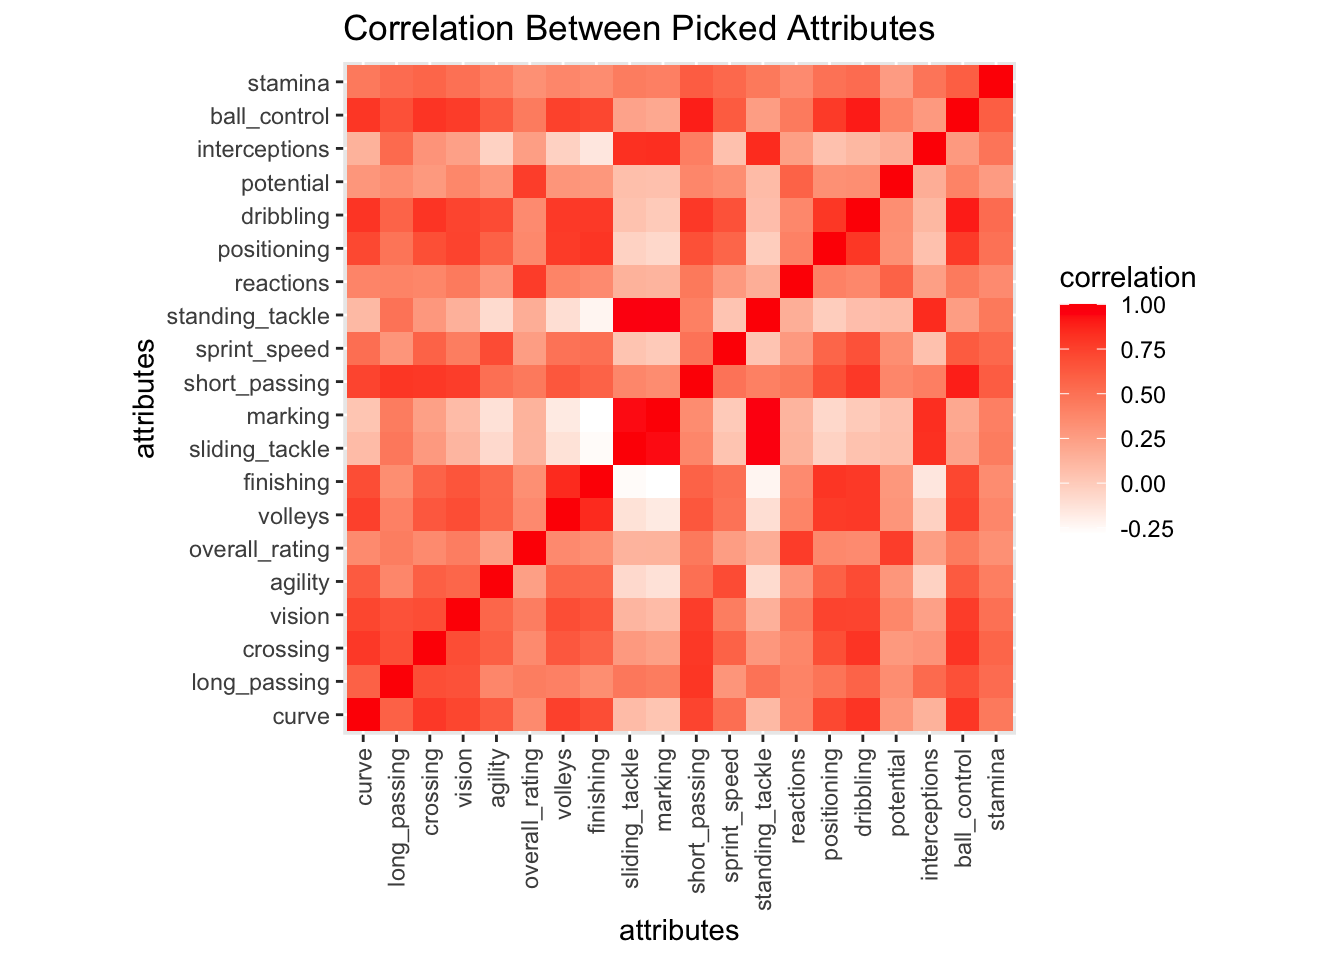
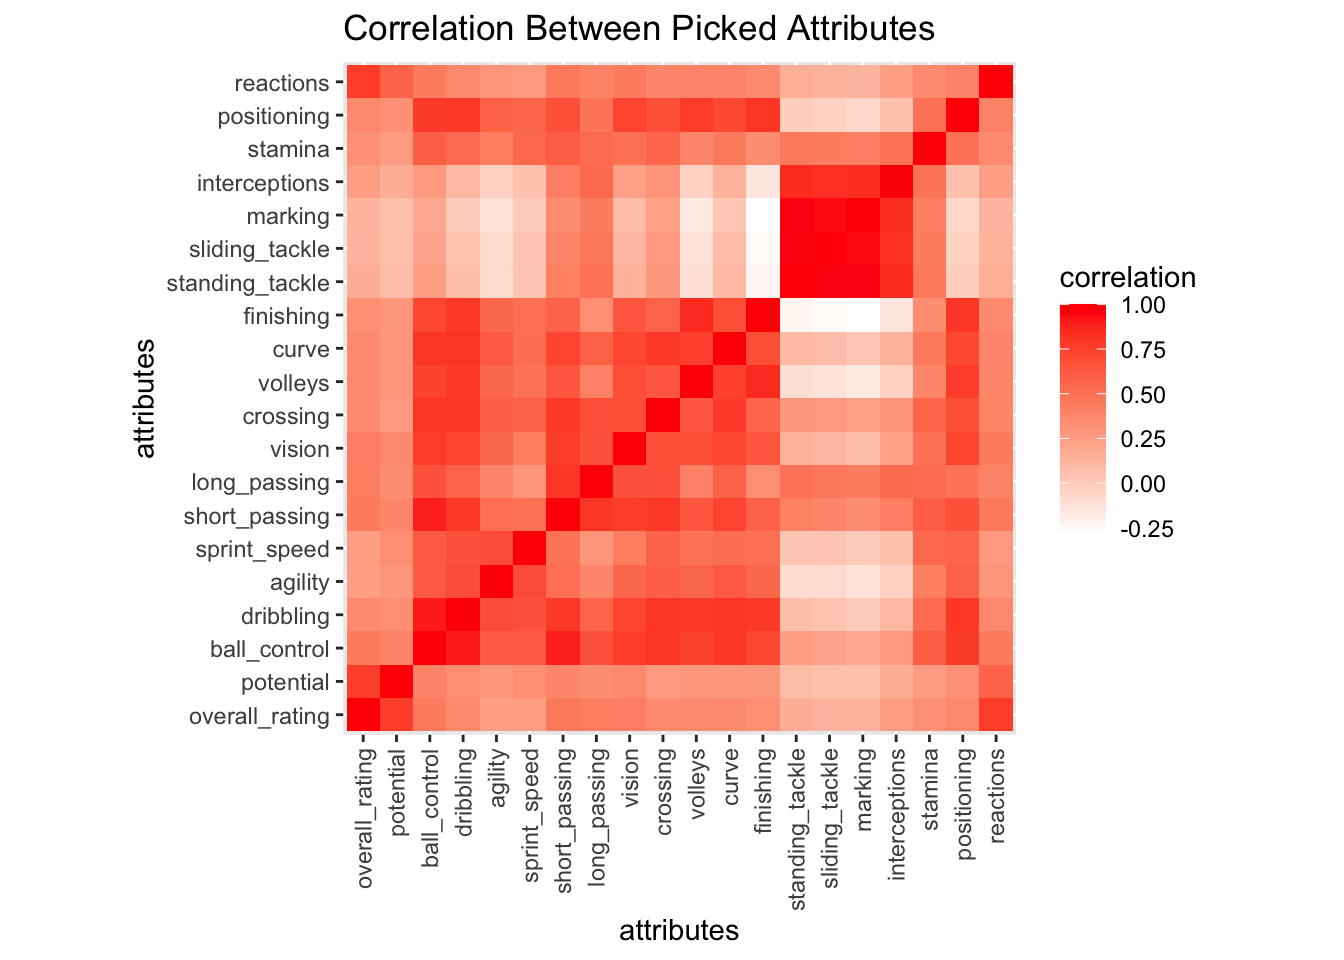
render heatmap

Changed region(s): [[0.125, 0.0625, 0.7812, 0.9375]]

diff --git a/docs/results.html b/docs/results.html
@@ -102,7 +102,7 @@
 </ul></li>
 <li class="chapter" data-level="5.2" data-path="results.html"><a href="results.html#team-biplot"><i class="fa fa-check"></i><b>5.2</b> team biplot</a></li>
 <li class="chapter" data-level="5.3" data-path="results.html"><a href="results.html#combine"><i class="fa fa-check"></i><b>5.3</b> Combine</a></li>
-<li class="chapter" data-level="5.4" data-path="results.html"><a href="results.html#five-factor-model"><i class="fa fa-check"></i><b>5.4</b> Five-Factor Model</a></li>
+<li class="chapter" data-level="5.4" data-path="results.html"><a href="results.html#a-five-factor-team-evaluation-system"><i class="fa fa-check"></i><b>5.4</b> A Five-Factor Team Evaluation System</a></li>
 </ul></li>
 <li class="chapter" data-level="6" data-path="interactive-component.html"><a href="interactive-component.html"><i class="fa fa-check"></i><b>6</b> Interactive component</a></li>
 <li class="chapter" data-level="7" data-path="conclusion.html"><a href="conclusion.html"><i class="fa fa-check"></i><b>7</b> Conclusion</a>
@@ -196,12 +196,28 @@ The clustering shows it separates guard and other players.</p>
 <div id="combine" class="section level2" number="5.3">
 <h2><span class="header-section-number">5.3</span> Combine</h2>
 </div>
-<div id="five-factor-model" class="section level2" number="5.4">
-<h2><span class="header-section-number">5.4</span> Five-Factor Model</h2>
-<p>Long Passing, Curve, Short Passing, Crossing, Overall Rating, Ball Control, Potential, Reactions, Vision, Finishing, Volleys, Positioning, Marking, Sliding Tackle, Standing Tackle, Interceptions, Dribbling, Agility, Sprint Speed, Stamina</p>
-<p><img src="finalproj_files/figure-html/unnamed-chunk-41-1.png" width="672" />
-We applied the Five-Factor Evaluation System and</p>
-<p><img src="finalproj_files/figure-html/unnamed-chunk-43-1.png" width="960" /></p>
+<div id="a-five-factor-team-evaluation-system" class="section level2" number="5.4">
+<h2><span class="header-section-number">5.4</span> A Five-Factor Team Evaluation System</h2>
+<p>Even though each team has some team attributes associated, it is crucial to include all players’ attributes when evaluating a team. Therefore, in this section, we attempt to aggregate player attributes into a team evaluation.</p>
+<p>We encode categorical attributes into one-hot vector and then take the averages for each of attributes across the team (due to the nature that the top players in a team is much more productive than others, we will use the top 6 players in building this system). Then, we run GBDT model for all attributes to find the relationship between attributes and the outcome (whether the team wins the match or the difference between the number of goals scored), and use <a href="https://www.kaggle.com/dansbecker/shap-values">SHAP value</a> to get the the ranking of feature importance. SHAP values interpret the impact of having a certain value for a given feature in comparison to the prediction we’d make if that feature took some baseline value. See this <a href="https://github.com/serendipitylee/SoccerGambling">Github repo</a> for more information.</p>
+<p>Following the introduced procedure, we then select the top 20 importance attributes for further analysis, which are <code>overall_rating</code>, <code>potential</code>, <code>ball_control</code>, <code>dribbling</code>, <code>agility</code>, <code>sprint_speed</code>, <code>short_passing</code>, <code>long_passing</code>, <code>vision</code>, <code>crossing</code>, <code>volleys</code>, <code>curve</code>, <code>finishing</code>, <code>standing_tackle</code>, <code>sliding_tackle</code>, <code>marking</code>, <code>interceptions</code>, <code>stamina</code>, <code>positioning</code> and <code>reactions</code>.</p>
+<p>To build a simpler and more explainable team evaluation system, we want to reduce our 20 picked attributes to only a few variables. We can first examine the correlation between each pair of attributes to get a sense of how similar between a pair of attributes.</p>
+<p><img src="finalproj_files/figure-html/unnamed-chunk-41-1.png" width="672" /></p>
+<p>In a correlation heatmap, each block represents the correlation of two attributes. The darker the color, the stronger the correlation. From the above plot, we can observe some big block with similar degree of the color which reveals that those attributes share similar information and we can further more reduce them to a lower dimension. To achieve that, we first apply clustering algorithm. See this <a href="https://github.com/serendipitylee/SoccerGambling">Github repo</a> for more information.</p>
+<p><img src="finalproj_files/figure-html/unnamed-chunk-43-1.png" width="960" />
+In have a better view of the cluster, we reorder the same heatmap and highlight each cluster. The final 5 clusters can be explained as following:</p>
+<p><strong>Passing</strong>: <code>long_passing</code>, <code>curve</code>, <code>short_passing</code>, <code>crossing</code>. Those attributes are all about passing.</p>
+<p><strong>Overall</strong>: <code>overall_rating</code>, <code>ball_control</code>, <code>potential</code>, <code>reactions</code>. Overall rating and potential are types of generalization, and reactions and ball controlling are important to every situation.</p>
+<p><strong>Shot</strong>: <code>vision</code>, <code>finishing</code>, <code>volleys</code>, <code>positioning</code>. It is apparent that finishing is about shots and volleys is a way to shoot. Why vision and positioning are important in getting goals? Although according to the schema visions are highly-correlated with long-passing, good vision and positioning can help with achieving goals. Let’s consider about the goals after the corner kick as an example. With brilliant vision and positioning, there is higher possibility in getting goals.</p>
+<p><strong>Tackle</strong>: <code>marking</code>, <code>sliding_tackle</code>, <code>standing_tackle</code>, <code>interceptions</code>. These attributes are about dispossess an opponent of the ball.</p>
+<p><strong>Physical</strong>: <code>dribbling</code>, <code>agility</code>, <code>sprint_speed</code>, <code>stamina</code>. Agility, sprint speed and stamina are about physical quality. And dribbling is here because perfect physical quality can lead to better dribbling ability.</p>
+<p>We can then apply dimension reduction technique to each cluster and reduce them to a 5 index evaluation system. And each index is a combination of corresponding attributes. See this <a href="https://github.com/serendipitylee/SoccerGambling">Github repo</a> for more information. The result is shown below:</p>
+<p>Passing = 0.95 * 0.95 * long passing + 2.02 * curve + 5.50 * short passing + 1.06 * crossing</p>
+<p>Overall = 3.54 * overall rating + 2.37 * ball control + 1.27 * potential + 1.09 * reactions</p>
+<p>Shot = 3.89 * vision + 1.01 * finishing + 1.83 * volleys + 2.93 * positioning</p>
+<p>Tackle = -0.70 * marking + 4.52 * sliding tackle + 1.34 * standing tackle + 5.57 * interceptions</p>
+<p>Physical = 6.50 * dribbling + 1.11 * agility + 0.34 * sprint speed + 2.19 * stamina</p>
+<p>Now, we can input the averages of the top 6 players in a team and learn their playing styple in the context of those 5 index, and also we can easily compare the styles and ability between teams. Playing around with the interactive plot in the next chapter to understand the system better.</p>
 
 </div>
 </div>

diff --git a/docs/404.html b/docs/404.html
@@ -102,7 +102,7 @@
 </ul></li>
 <li class="chapter" data-level="5.2" data-path="results.html"><a href="results.html#team-biplot"><i class="fa fa-check"></i><b>5.2</b> team biplot</a></li>
 <li class="chapter" data-level="5.3" data-path="results.html"><a href="results.html#combine"><i class="fa fa-check"></i><b>5.3</b> Combine</a></li>
-<li class="chapter" data-level="5.4" data-path="results.html"><a href="results.html#five-factor-model"><i class="fa fa-check"></i><b>5.4</b> Five-Factor Model</a></li>
+<li class="chapter" data-level="5.4" data-path="results.html"><a href="results.html#a-five-factor-team-evaluation-system"><i class="fa fa-check"></i><b>5.4</b> A Five-Factor Team Evaluation System</a></li>
 </ul></li>
 <li class="chapter" data-level="6" data-path="interactive-component.html"><a href="interactive-component.html"><i class="fa fa-check"></i><b>6</b> Interactive component</a></li>
 <li class="chapter" data-level="7" data-path="conclusion.html"><a href="conclusion.html"><i class="fa fa-check"></i><b>7</b> Conclusion</a>

diff --git a/docs/conclusion.html b/docs/conclusion.html
@@ -102,7 +102,7 @@
 </ul></li>
 <li class="chapter" data-level="5.2" data-path="results.html"><a href="results.html#team-biplot"><i class="fa fa-check"></i><b>5.2</b> team biplot</a></li>
 <li class="chapter" data-level="5.3" data-path="results.html"><a href="results.html#combine"><i class="fa fa-check"></i><b>5.3</b> Combine</a></li>
-<li class="chapter" data-level="5.4" data-path="results.html"><a href="results.html#five-factor-model"><i class="fa fa-check"></i><b>5.4</b> Five-Factor Model</a></li>
+<li class="chapter" data-level="5.4" data-path="results.html"><a href="results.html#a-five-factor-team-evaluation-system"><i class="fa fa-check"></i><b>5.4</b> A Five-Factor Team Evaluation System</a></li>
 </ul></li>
 <li class="chapter" data-level="6" data-path="interactive-component.html"><a href="interactive-component.html"><i class="fa fa-check"></i><b>6</b> Interactive component</a></li>
 <li class="chapter" data-level="7" data-path="conclusion.html"><a href="conclusion.html"><i class="fa fa-check"></i><b>7</b> Conclusion</a>

diff --git a/docs/data-sources.html b/docs/data-sources.html
@@ -102,7 +102,7 @@
 </ul></li>
 <li class="chapter" data-level="5.2" data-path="results.html"><a href="results.html#team-biplot"><i class="fa fa-check"></i><b>5.2</b> team biplot</a></li>
 <li class="chapter" data-level="5.3" data-path="results.html"><a href="results.html#combine"><i class="fa fa-check"></i><b>5.3</b> Combine</a></li>
-<li class="chapter" data-level="5.4" data-path="results.html"><a href="results.html#five-factor-model"><i class="fa fa-check"></i><b>5.4</b> Five-Factor Model</a></li>
+<li class="chapter" data-level="5.4" data-path="results.html"><a href="results.html#a-five-factor-team-evaluation-system"><i class="fa fa-check"></i><b>5.4</b> A Five-Factor Team Evaluation System</a></li>
 </ul></li>
 <li class="chapter" data-level="6" data-path="interactive-component.html"><a href="interactive-component.html"><i class="fa fa-check"></i><b>6</b> Interactive component</a></li>
 <li class="chapter" data-level="7" data-path="conclusion.html"><a href="conclusion.html"><i class="fa fa-check"></i><b>7</b> Conclusion</a>

diff --git a/docs/data-transformation.html b/docs/data-transformation.html
@@ -102,7 +102,7 @@
 </ul></li>
 <li class="chapter" data-level="5.2" data-path="results.html"><a href="results.html#team-biplot"><i class="fa fa-check"></i><b>5.2</b> team biplot</a></li>
 <li class="chapter" data-level="5.3" data-path="results.html"><a href="results.html#combine"><i class="fa fa-check"></i><b>5.3</b> Combine</a></li>
-<li class="chapter" data-level="5.4" data-path="results.html"><a href="results.html#five-factor-model"><i class="fa fa-check"></i><b>5.4</b> Five-Factor Model</a></li>
+<li class="chapter" data-level="5.4" data-path="results.html"><a href="results.html#a-five-factor-team-evaluation-system"><i class="fa fa-check"></i><b>5.4</b> A Five-Factor Team Evaluation System</a></li>
 </ul></li>
 <li class="chapter" data-level="6" data-path="interactive-component.html"><a href="interactive-component.html"><i class="fa fa-check"></i><b>6</b> Interactive component</a></li>
 <li class="chapter" data-level="7" data-path="conclusion.html"><a href="conclusion.html"><i class="fa fa-check"></i><b>7</b> Conclusion</a>

diff --git a/docs/index.html b/docs/index.html
@@ -102,7 +102,7 @@
 </ul></li>
 <li class="chapter" data-level="5.2" data-path="results.html"><a href="results.html#team-biplot"><i class="fa fa-check"></i><b>5.2</b> team biplot</a></li>
 <li class="chapter" data-level="5.3" data-path="results.html"><a href="results.html#combine"><i class="fa fa-check"></i><b>5.3</b> Combine</a></li>
-<li class="chapter" data-level="5.4" data-path="results.html"><a href="results.html#five-factor-model"><i class="fa fa-check"></i><b>5.4</b> Five-Factor Model</a></li>
+<li class="chapter" data-level="5.4" data-path="results.html"><a href="results.html#a-five-factor-team-evaluation-system"><i class="fa fa-check"></i><b>5.4</b> A Five-Factor Team Evaluation System</a></li>
 </ul></li>
 <li class="chapter" data-level="6" data-path="interactive-component.html"><a href="interactive-component.html"><i class="fa fa-check"></i><b>6</b> Interactive component</a></li>
 <li class="chapter" data-level="7" data-path="conclusion.html"><a href="conclusion.html"><i class="fa fa-check"></i><b>7</b> Conclusion</a>

diff --git a/docs/interactive-component.html b/docs/interactive-component.html
@@ -102,7 +102,7 @@
 </ul></li>
 <li class="chapter" data-level="5.2" data-path="results.html"><a href="results.html#team-biplot"><i class="fa fa-check"></i><b>5.2</b> team biplot</a></li>
 <li class="chapter" data-level="5.3" data-path="results.html"><a href="results.html#combine"><i class="fa fa-check"></i><b>5.3</b> Combine</a></li>
-<li class="chapter" data-level="5.4" data-path="results.html"><a href="results.html#five-factor-model"><i class="fa fa-check"></i><b>5.4</b> Five-Factor Model</a></li>
+<li class="chapter" data-level="5.4" data-path="results.html"><a href="results.html#a-five-factor-team-evaluation-system"><i class="fa fa-check"></i><b>5.4</b> A Five-Factor Team Evaluation System</a></li>
 </ul></li>
 <li class="chapter" data-level="6" data-path="interactive-component.html"><a href="interactive-component.html"><i class="fa fa-check"></i><b>6</b> Interactive component</a></li>
 <li class="chapter" data-level="7" data-path="conclusion.html"><a href="conclusion.html"><i class="fa fa-check"></i><b>7</b> Conclusion</a>

diff --git a/docs/missing-values.html b/docs/missing-values.html
@@ -102,7 +102,7 @@
 </ul></li>
 <li class="chapter" data-level="5.2" data-path="results.html"><a href="results.html#team-biplot"><i class="fa fa-check"></i><b>5.2</b> team biplot</a></li>
 <li class="chapter" data-level="5.3" data-path="results.html"><a href="results.html#combine"><i class="fa fa-check"></i><b>5.3</b> Combine</a></li>
-<li class="chapter" data-level="5.4" data-path="results.html"><a href="results.html#five-factor-model"><i class="fa fa-check"></i><b>5.4</b> Five-Factor Model</a></li>
+<li class="chapter" data-level="5.4" data-path="results.html"><a href="results.html#a-five-factor-team-evaluation-system"><i class="fa fa-check"></i><b>5.4</b> A Five-Factor Team Evaluation System</a></li>
 </ul></li>
 <li class="chapter" data-level="6" data-path="interactive-component.html"><a href="interactive-component.html"><i class="fa fa-check"></i><b>6</b> Interactive component</a></li>
 <li class="chapter" data-level="7" data-path="conclusion.html"><a href="conclusion.html"><i class="fa fa-check"></i><b>7</b> Conclusion</a>
